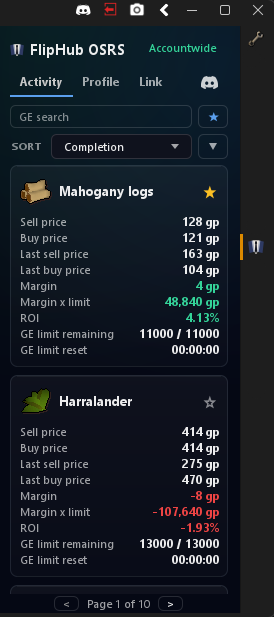
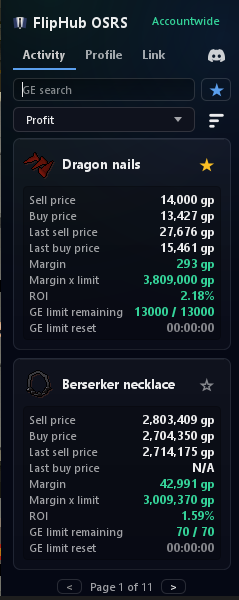
Retake the panel screenshots and rebuild the page around them
The shipped screenshots are two releases old. They predate the recipe
recorder, the colours that say how old a live price is, and the bookmark
filter, and their Activity card still carries the lopsided padding that
was fixed since.

Every panel image is a fresh capture and none is more than two item cards
tall, because a longer column renders as a thin ribbon on the listing
page. The page gains a section for what the colours on the two live
prices mean, which is the part of the panel that most needs saying out
loud, and the recipe section now shows the recorder as you work in it and
the single activity it leaves behind.

The Link tab is described rather than shown: it prints the last four
characters of the licence key, which does not belong in a public image.

diff --git a/README.md b/README.md
@@ -21,6 +21,35 @@ completion, profit or ROI.
 
 ![The FlipHub Activity panel in the RuneLite sidebar, showing sell and buy price, last traded prices, margin, margin x limit, ROI and remaining GE buy limit](docs/panel-activity.png)
 
+#### You can see how old a price is
+
+A live price is only ever the last trade someone made, and plenty of items go an hour between
+trades. So the two live prices are coloured by the age of the trade behind them:
+
+- **white** — traded within the last half hour
+- **amber** — nothing for 30 minutes, and going cold
+- **red** — nothing for an hour, so don't type it into an offer without checking
+
+Each side is judged on its own. An item that sells briskly but is bought rarely shows one of each,
+which is the whole point: it is the stale side that costs you.
+
+![Three Grand Exchange items in the panel: one with a red sell price beside a white buy price, one with both prices amber, and prices in white on an item still trading](docs/panel-price-age.png)
+
+Hover either price for the exact age of both.
+
+![A tooltip over the sell price reading "Sell price age: 01:30:14" in red and "Buy price age: 00:06:54" in white](docs/panel-price-age-tooltip.png)
+
+The same three colours run the **offer timers** in game: each Grand Exchange slot carries the time
+since that offer last moved — green under five minutes, yellow under thirty, red beyond. Turn them
+off with **Show GE offer timers**.
+
+#### Bookmarks
+
+Star the items you flip often and filter the list down to just those. An item you never want to see
+again can be hidden from its icon.
+
+![The panel filtered to bookmarked items, the star in the search row lit gold and the list headed "Bookmarked items"](docs/panel-bookmarks.png)
+
 #### Grand Exchange suggestions
 
 Setting up an offer fills the prompts in with the numbers you'd otherwise alt-tab for.
@@ -47,10 +76,15 @@ Turn it off with **Type decimal amounts** in the plugin settings.
 
 #### Profile
 
-Completed flips totalled per item over **Session**, **1h**, **4h**, **24h**, **7d** or **All
+Completed flips totalled per item over **Session**, **Last 1h**, **4h**, **24h**, **7d** or **All
 time**. Sort by completion, profit or ROI.
 
 ![The Profile tab, showing total profit, ROI, flips made and tax paid over the selected range, above a sortable list of per-item totals](docs/panel-profile.png)
+
+Open an item for what those totals are made of — average buy and sell, quantity, how long a flip
+took to fill — and every flip behind them, listed one by one.
+
+![An opened item showing total profit, total cost, average sell and buy, ROI, flips, quantity and average time to complete, over a flip history listing each flip's quantity, buy, sell and profit](docs/panel-profile-item.png)
 
 #### Recipes
 
@@ -58,13 +92,23 @@ Bought a blade and a hilt, made a godsword, sold it? The game never tells a plug
 became one, so the three trades would otherwise be counted as three separate flips — one of them
 looking like a windfall and the others like losses.
 
-**Record a recipe** on the Profile tab. Your finished trades are listed newest first; tick the
-ones the recipe was made from — the purchases that went in and the sales the result went out
-through — and they become one activity with one profit. Assembling, disassembling, repairing and
-making or breaking sets are all covered, and a repair fee counts towards the cost.
+**Record a recipe** on the Profile tab. Your finished trades are listed newest first; tick the ones
+the recipe was made from — the purchases that went in and the sales the result went out through.
+Assembling, disassembling, repairing and making or breaking sets are all covered.
 
-Nothing is guessed and nothing is recorded for you. Everything you record is listed underneath,
-and any of it can be undone.
+![The recipe recorder, set to "Broke up a set", with a set purchase and four piece sales ticked and the count reading "1 in, 4 out"](docs/panel-recipe-pick.png)
+
+A repair fee counts towards the cost, and the total is worked out in front of you before anything
+is written down. Everything you have recorded is listed underneath, and any of it can be undone.
+
+![The recorder's total: cost 159,995 gp, received 129,819 gp, tax 2,202 gp and a profit of -30,176 gp, above the Record button and a list of recipes already recorded, each with a Forget link](docs/panel-recipe-record.png)
+
+Afterwards the trades are one activity with one profit, filed under the item the recipe was about,
+and the Profile tab says which kind each one was.
+
+![An item's activity list: "Broken into" and "Combined from" entries alongside an ordinary flip, each with its own quantity, buy, sell and profit](docs/panel-recipe-activity.png)
+
+Nothing is guessed and nothing is recorded for you.
 
 #### Sync with FlipHub OSRS
 
@@ -89,7 +133,8 @@ and ranks as your total climbs.
 #### Also
 
 - **Offer preview** — open an offer in game and the panel jumps to that item.
-- **Bookmarks** — star the items you flip often, filter to just those, hide the rest.
+- **One character or all of them** — the name above the tabs picks whose trades you are looking at,
+  or adds them all together.
 
 ## Getting started
 
